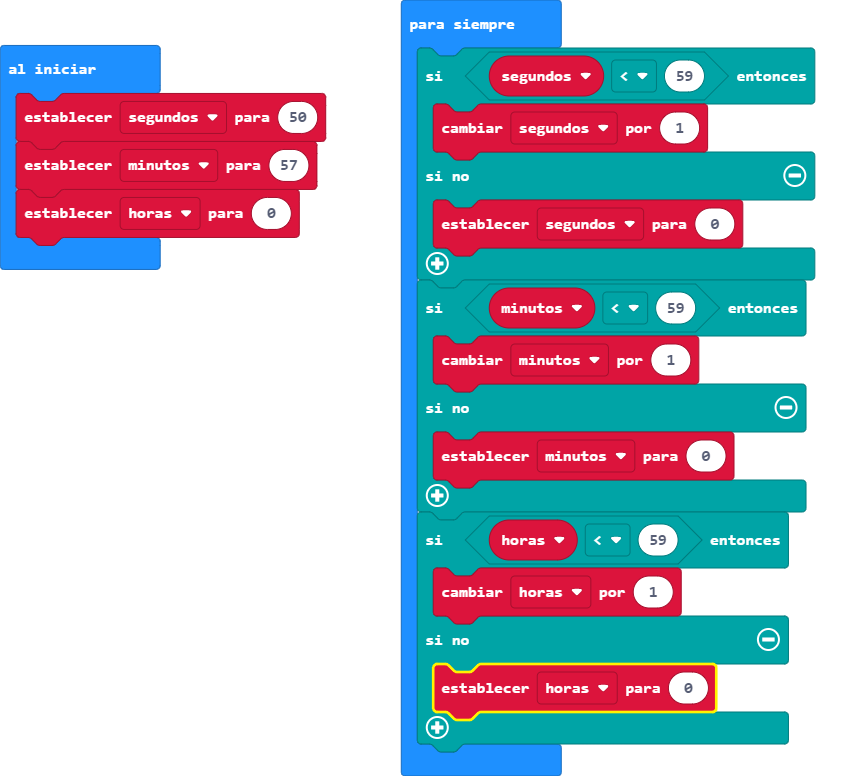
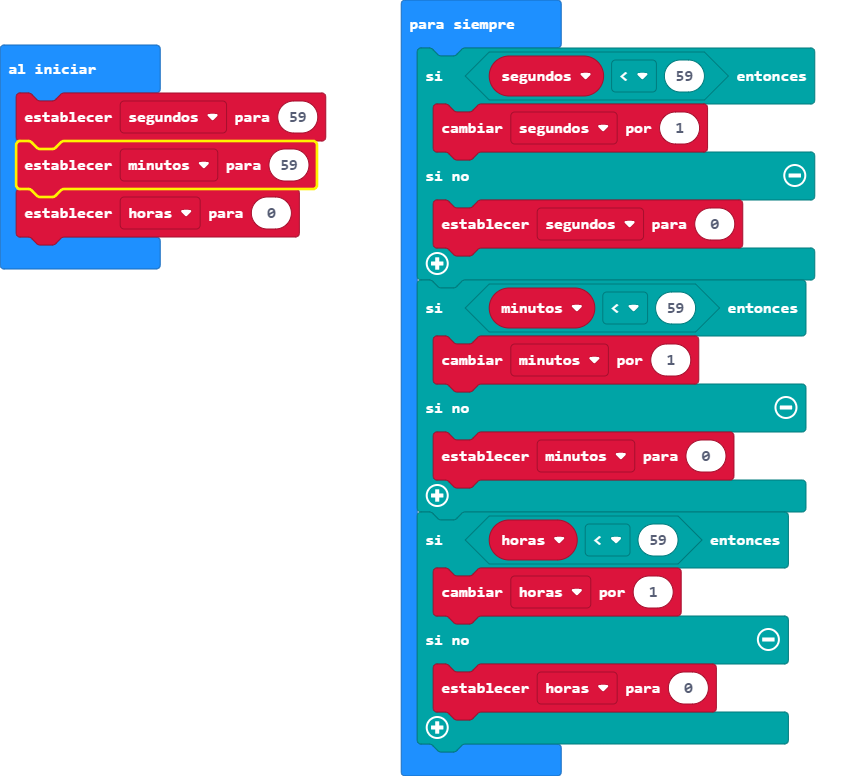
reloj

diff --git a/main.ts b/main.ts
@@ -1,5 +1,5 @@
-let segundos = 50
-let minutos = 57
+let segundos = 59
+let minutos = 59
 let horas = 0
 basic.forever(function () {
     if (segundos < 59) {
